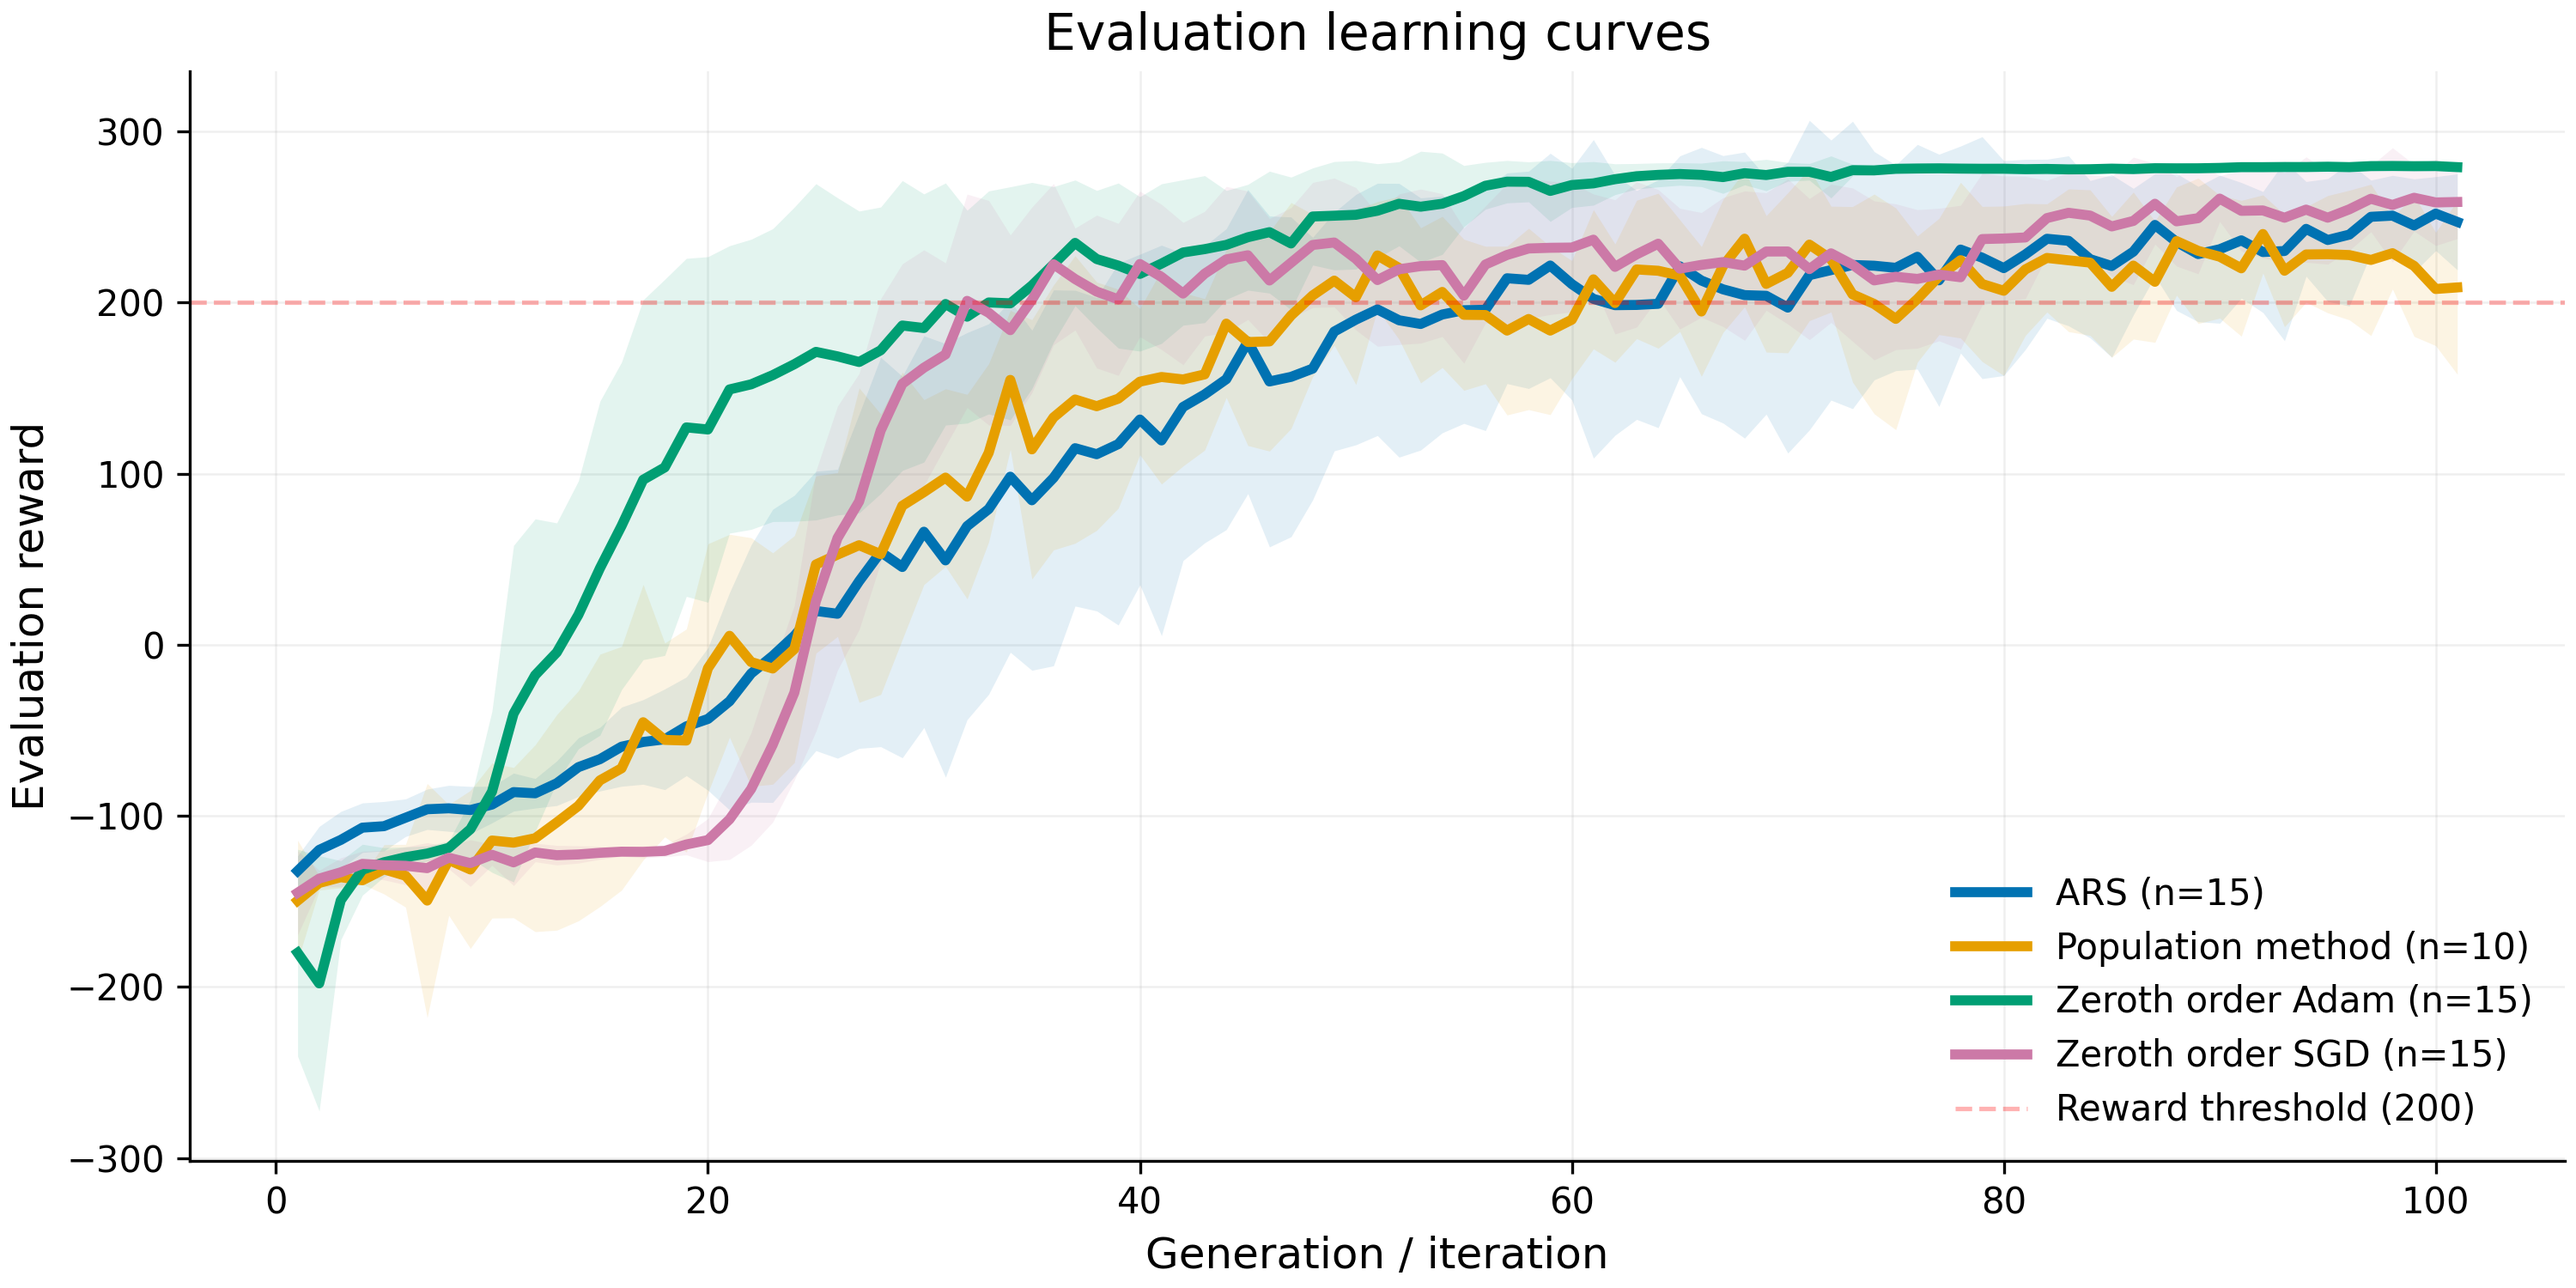
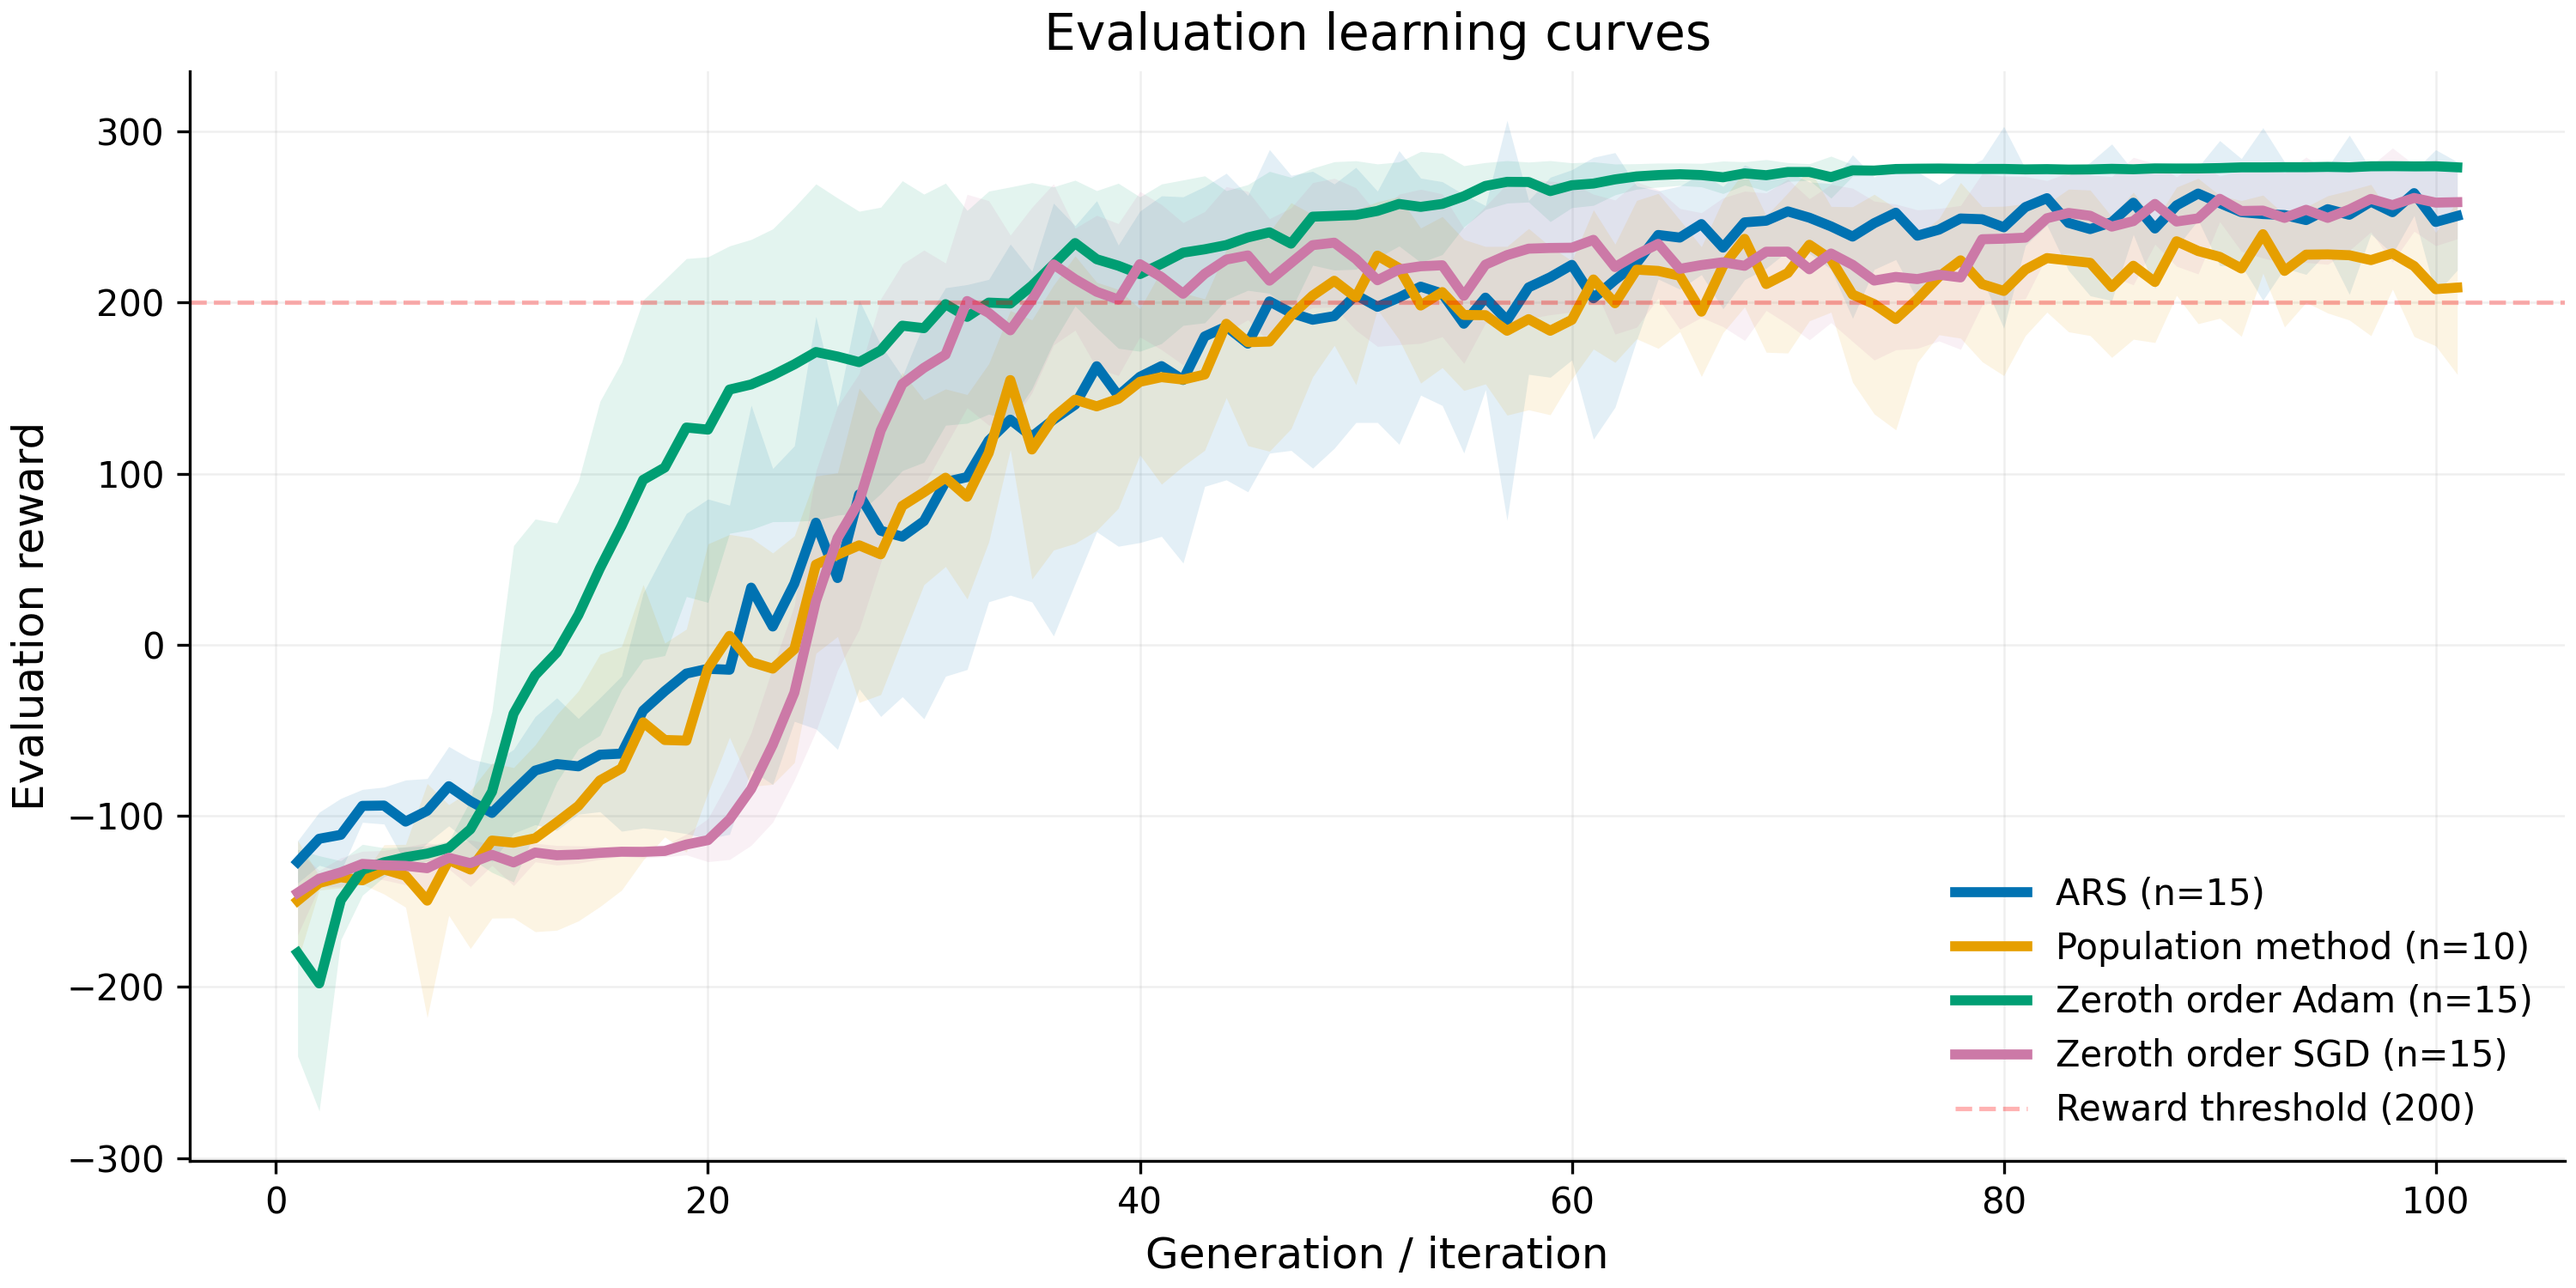
finish ars

Changed region(s): [[0.093, 0.092, 0.961, 0.6747]]

diff --git a/random_search.py b/random_search.py
@@ -73,11 +73,11 @@ def main(argv=None):
         help="perturbation standard deviation (initial default: %(default)s)",
     )
     parser.add_argument(
-        "--step-size", type=float, default=0.2,
+        "--step-size", type=float, default=0.25,
         help="finite-difference step size (initial default: %(default)s)",
     )
     parser.add_argument(
-        "--top-b", type=int, default=24,
+        "--top-b", type=int, default=20,
         help="number of top-performing directions to use (initial default: %(default)s)",
     )
     args = parser.parse_args(argv)
